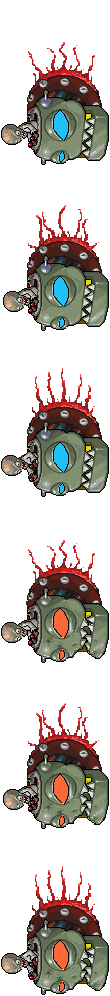
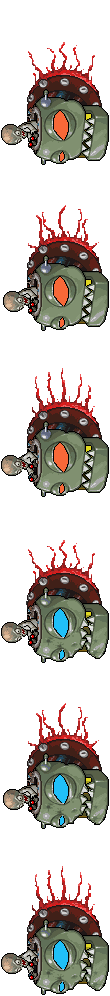
new sprites

diff --git a/README.md b/README.md
@@ -25,4 +25,5 @@
 - **Edición:** K0Y0Y
 - **Arte:** Plants vs. Zombies DS (PopCap / EA)
 - **Música:** Laura Shigihara
+- **The The Wise Willow:** The Wise Willow for allowing me to use the<a href="https://steamcommunity.com/sharedfiles/filedetails/?id=2440766780&searchtext=Colored+relics">Bosses Colored Relic</a> RP.
 - **Sprites y assets:** <a href="https://www.spriters-resource.com/">The Spriters resource</a>
